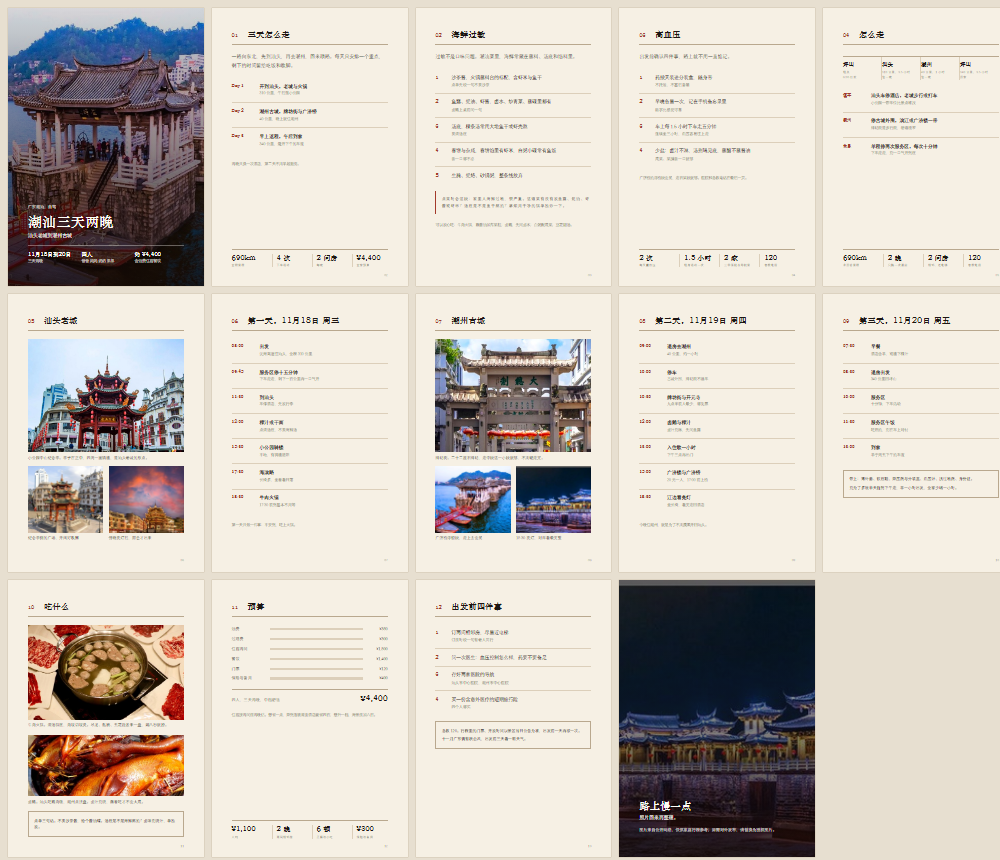
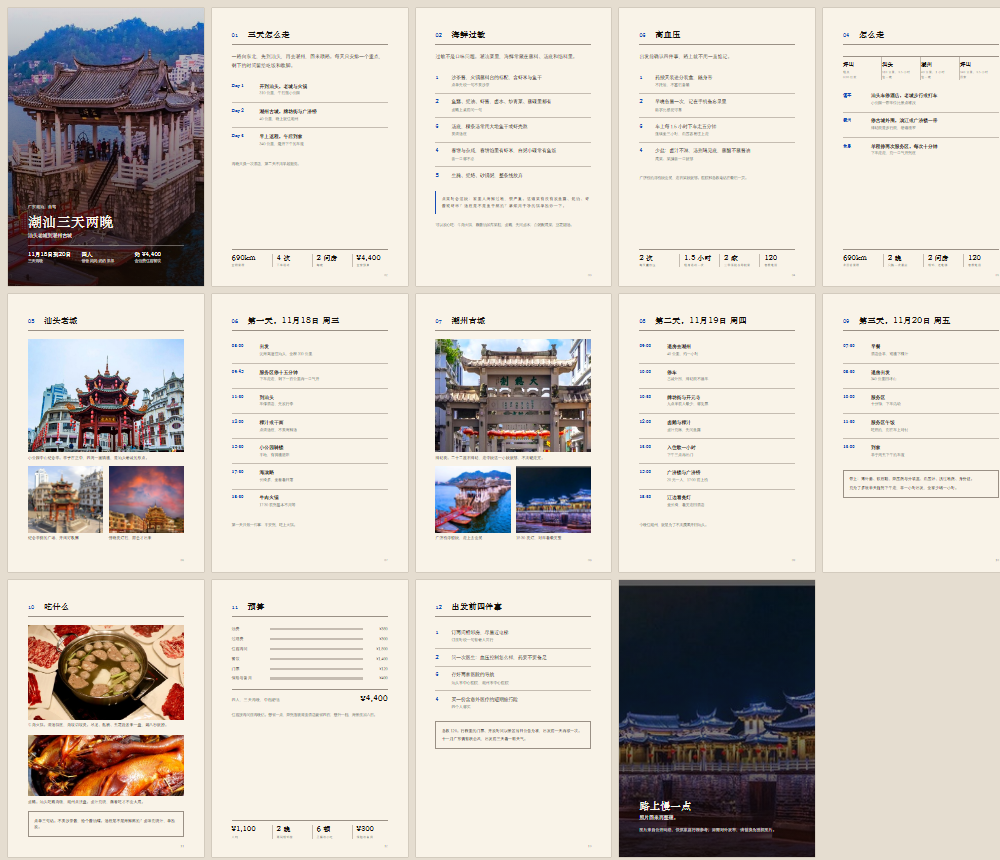
Apply the dealt Hallmark theme (Specimen): oat paper, warm ink, single ink-blue signal

Changed region(s): [[0.992, 0.5442, 1.0, 0.5744]]

diff --git a/design/doc.css b/design/doc.css
@@ -1,16 +1,16 @@
-/* Hallmark · trip-pdf · editorial paper · by request (A5) */
+/* Hallmark · tripbook · theme: specimen (dealt 1/3, seed prompt-1504·06750c3b) · A5 */
 /* waive 26b: print document, no interactive controls */
 /* critique: one serif voice, one vermilion signal, hairline rules instead of cards; no shadows, no rounded panels, no label caps */
 
 :root {
-  --ink: #1c1613;
-  --ink-2: #4a3f36;
-  --muted: #8a7a68;
-  --paper: #f6f0e4;
-  --paper-2: #fffdf7;
-  --accent: #a33a2b;
-  --rule: #dccfba;
-  --rule-strong: #b9a88e;
+  --ink: oklch(17% 0.012 60);
+  --ink-2: oklch(28% 0.014 60);
+  --muted: oklch(49% 0.014 65);
+  --paper: oklch(96.5% 0.016 82);
+  --paper-2: oklch(97% 0.012 82);
+  --accent: oklch(45% 0.18 262);
+  --rule: oklch(80% 0.018 75);
+  --rule-strong: oklch(66% 0.02 72);
   --display: "STZhongsong", "SimSun", serif;
   --body: "DengXian", "Microsoft YaHei", sans-serif;
   --veil-low: rgba(20, 9, 6, 0.15);
@@ -19,7 +19,7 @@
   --on-dark: #fffdf7;
   --on-dark-dim: rgba(255, 253, 247, 0.86);
   --on-dark-line: rgba(255, 253, 247, 0.35);
-  --preview-bg: #e7dfd0;
+  --preview-bg: oklch(90% 0.02 80);
   --pad: 15mm;
   --lead: 1.75;
 }
@@ -481,6 +481,7 @@ button:focus-visible {
     transition: none !important;
   }
 }
+
 
 
 

diff --git a/README.md b/README.md
@@ -79,7 +79,7 @@ python make.py trips/chaoshan.json --html-only
 
 这份排版是按几条硬规则做的，写在这里，改的时候别破坏：
 
-1. 颜色只有五个：纸、墨、灰、朱红、细线。全部在 `design/doc.css` 的 `:root` 里，正文里不出现色值。
+1. 颜色只有五个：纸、墨、灰、墨蓝、细线。全部在 `design/doc.css` 的 `:root` 里，正文里不出现色值。
 2. 不用卡片、不用阴影、不用圆角面板。分区分靠 0.3 到 0.4 磅的细线。
 3. 字族最多两个：标题华文中宋，正文等线。
 4. 一页只说一件事。文字放不下就减字，不缩字号。
@@ -88,6 +88,14 @@ python make.py trips/chaoshan.json --html-only
 7. 不使用「必去」「绝美」「天花板」这类词。
 
 `design/doc.css` 开头的注释是这套规则的版本戳。
+
+## 这套版式从哪来
+
+用 [Hallmark](https://github.com/tripbook/hallmark) 的设计方法做的。跑它的抽签，抽到 **Specimen**：
+
+> 暖燕麦纸，近黑的墨，高对比衬线压在无衬线正文上，1px 方线，唯一的墨蓝信号。
+
+颜色和线宽照抄了它的 token。字体做了替换：Specimen 用 Bodoni Moda 和 Geist，都没有中文字形，换成华文中宋（高对比衬线，对应 Bodoni）和等线（中性无衬线，对应 Geist）。两处刻意的偏离：照片保留彩色（Specimen 原本是墨色双色调），封面允许字压在图上（它原本规定字不落在照片上）。
 
 ## 已知限制
 
